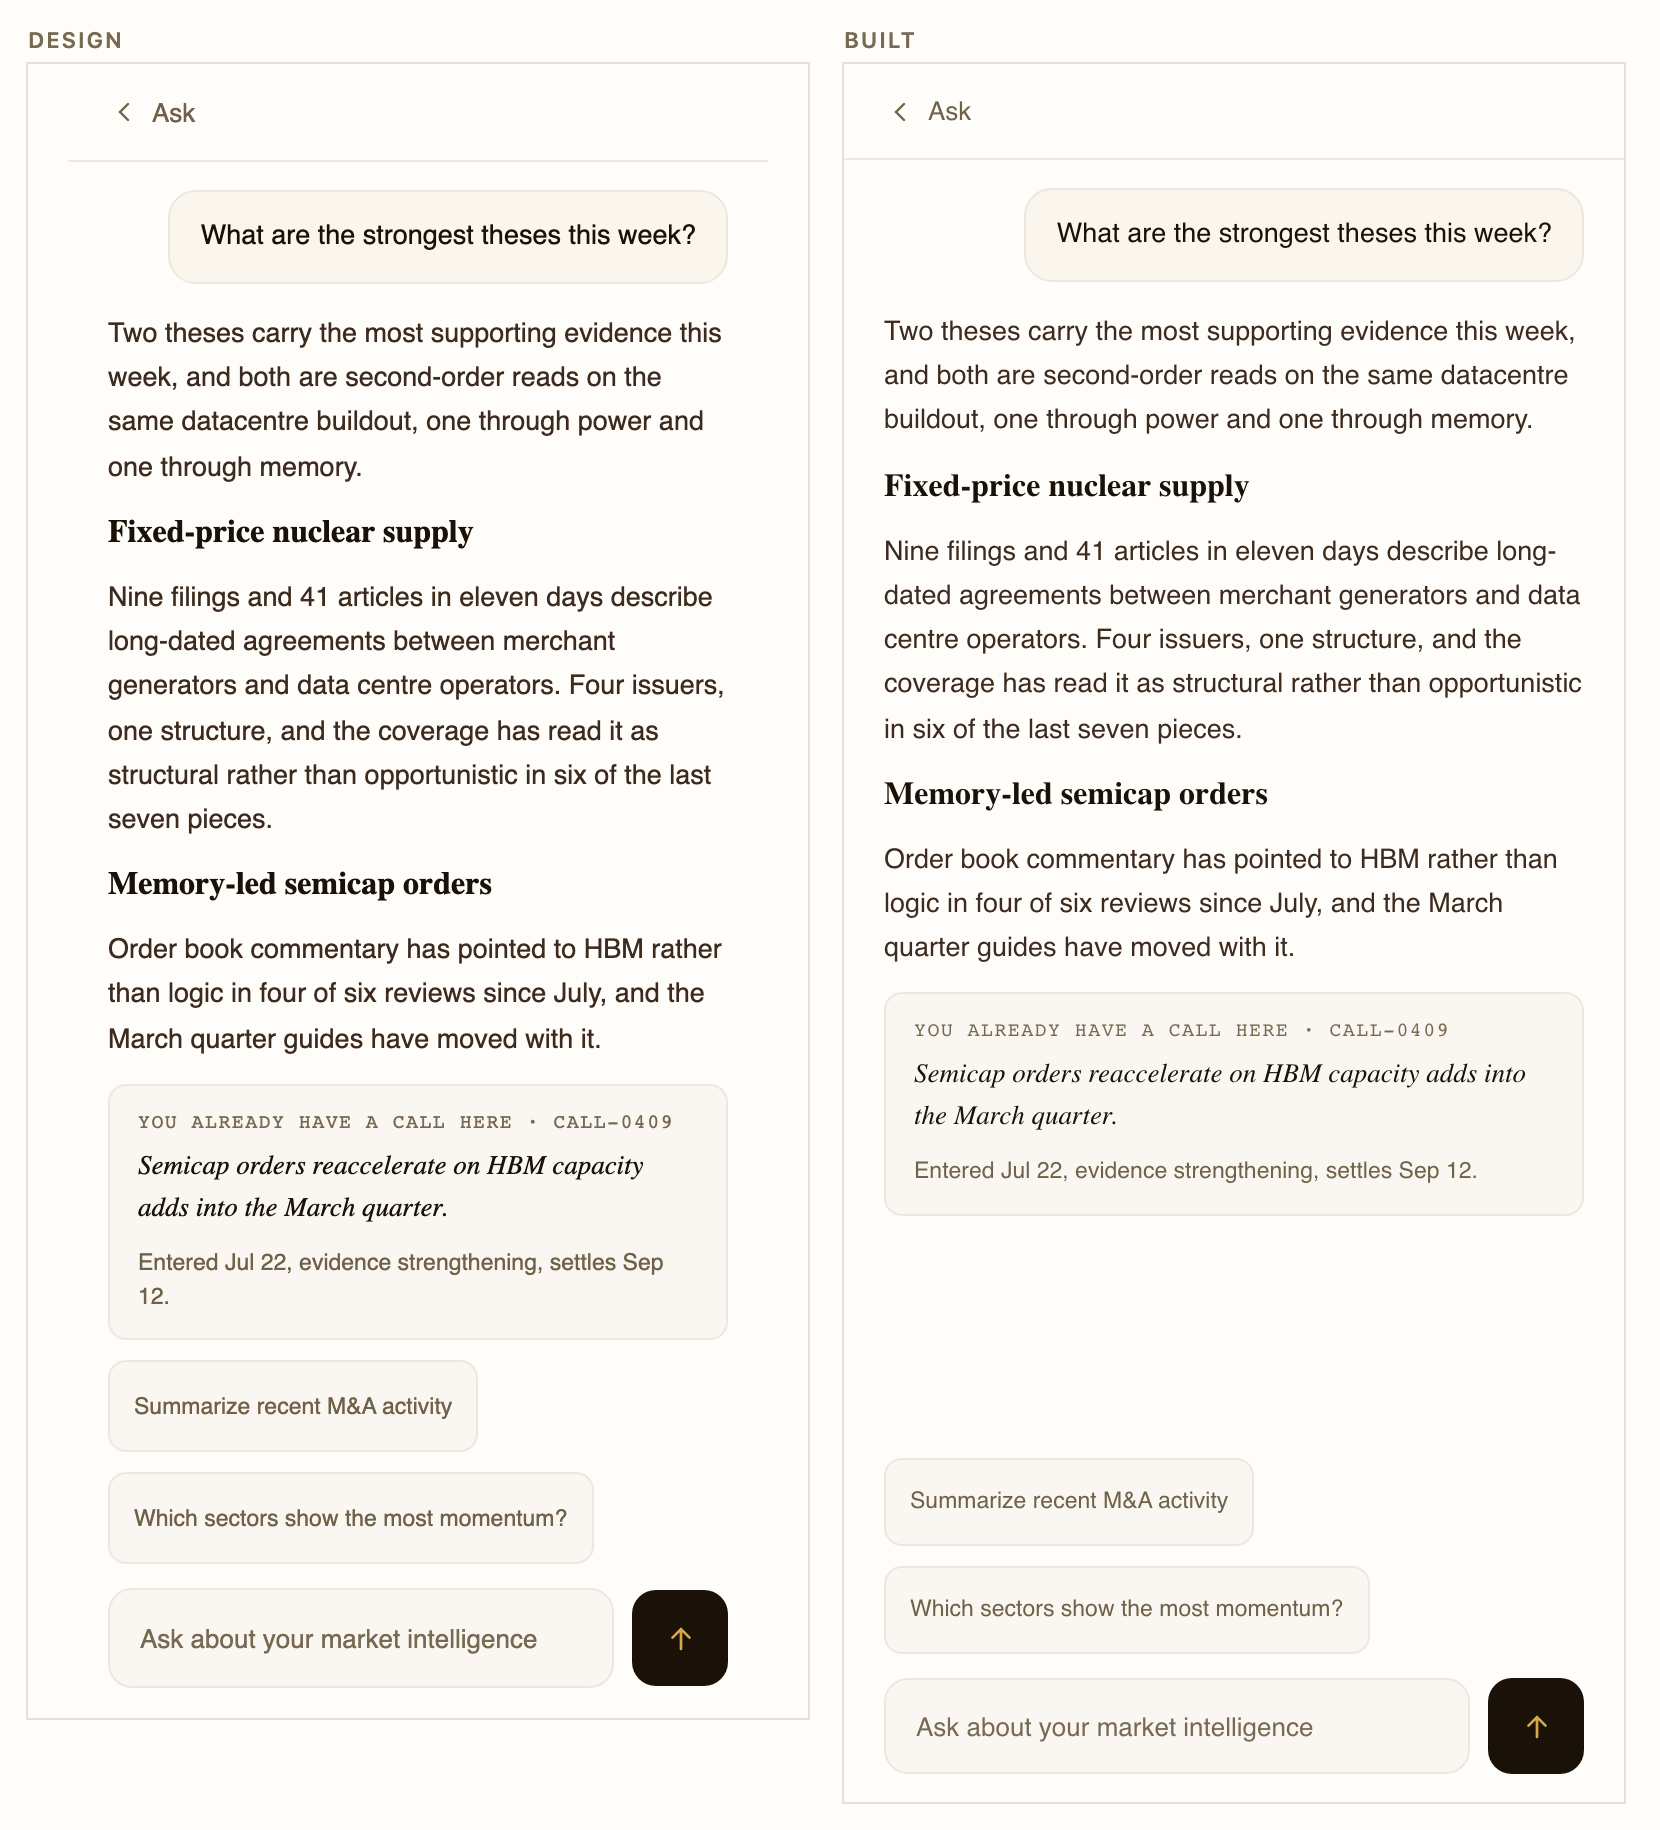
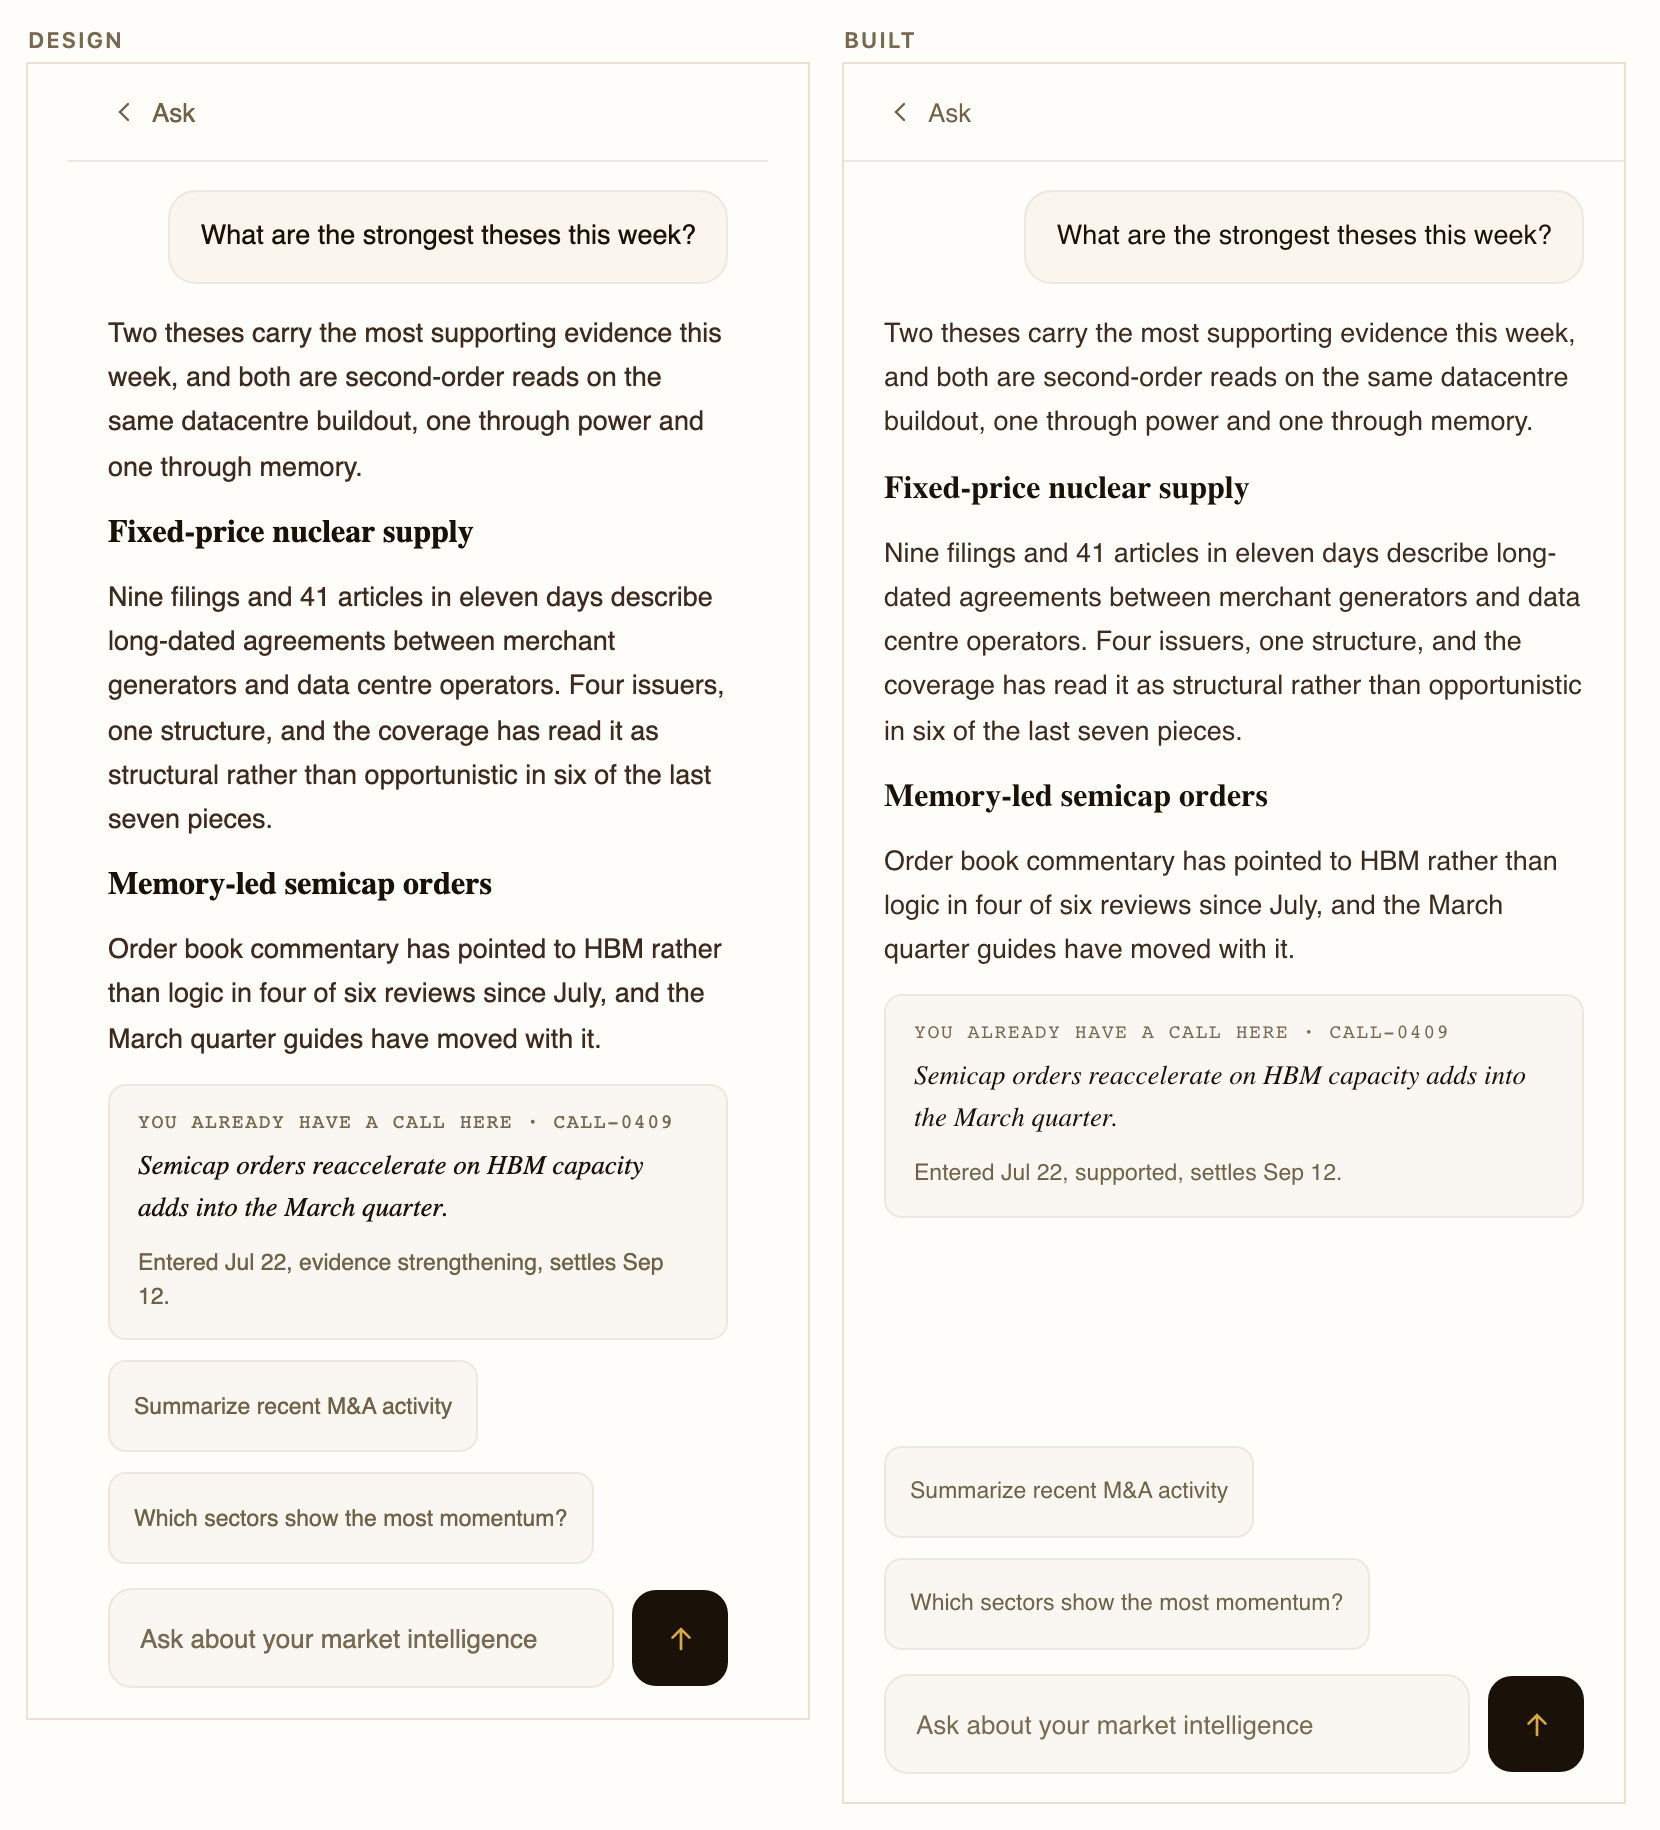
fix(ask): review, three findings applied
1. The record citation said "evidence strengthening". The outcome vocabulary
   is exactly supported / challenged / developing / awaiting, and this is the
   one card on the screen whose purpose is citing the reader's own call, so a
   fifth word for the same concept is the last thing that belongs on it. Now
   reads "supported". The design itself says it twice, "evidence
   strengthening" at prototype line 2563 and "Strengthening" at line 2037, and
   the second is drawn in --c-greenink, which is the ink token supported
   already carries. Neither paraphrase is reproduced.

2. The directory's Trends row still points at /trends, and the comment
   justifying it was only true until the mobile Trends screen merges. Rewritten
   to say what it is: a deliberate placeholder aimed at a desk page, because
   /trends-mobile does not exist on main and merge order is not something this
   file can depend on. Both routes are already in the Ask pole's owns list, so
   the pole lights either way and the swap is one string.

3. Reconciled to content-box. The prototype ships no box-sizing reset so every
   box in it is content-box; this app sets border-box globally, so a min-height
   means two different things on the two sides. Measured at 390, every
   min-height box on the screen was short, and the directory rows were short by
   more than the chips: design 95/95/96/57/57/58/46/46/50/49, built at
   border-box 93/93/75/56/56/56/44/44/48/48. All ten now match the design
[…]

diff --git a/src/components/ask/fixture.ts b/src/components/ask/fixture.ts
@@ -31,9 +31,22 @@ export type AskDirectoryRoute = {
 /**
  * Not fixture data. These three destinations exist in production and the row
  * renders with or without the gate; only the counter and the summary are
- * invented. `/trends` rather than `/trends-mobile`: the mobile Trends screen is
- * a separate unit and its route does not exist yet, and `/trends` lights the
- * same Ask pole.
+ * invented.
+ *
+ * `/trends` is a deliberate placeholder, and it is the one row here that is
+ * knowingly aimed at a desk page rather than a mobile one. The mobile Trends
+ * screen is a separate unit, is open as PR #657, and lands at
+ * `/trends-mobile`. That route does not exist on `main`, so pointing at it
+ * from here before it merges aims the row at a 404, and merge order between
+ * the two is not something this file can depend on. A working desk page beats
+ * a dead link; a dead link is not a smaller defect for being aspirational.
+ *
+ * Both routes are already in the Ask pole's `owns` list
+ * (`mobile-tab-bar.tsx:128` and `:135`), so the pole lights either way and the
+ * swap is this one string and nothing else.
+ *
+ * TODO(when the mobile Trends screen merges): change this href to
+ * `/trends-mobile`. There is nothing else to change.
  */
 export const ASK_DIRECTORY: AskDirectoryRoute[] = [
   { id: "deals", label: "Deal Flow", href: "/deal-flow" },
@@ -155,7 +168,17 @@ export const ASK_ANSWER_FIXTURE: AskAnswerData = {
   record: {
     eyebrow: "YOU ALREADY HAVE A CALL HERE · CALL-0409",
     claim: "Semicap orders reaccelerate on HBM capacity adds into the March quarter.",
-    meta: "Entered Jul 22, evidence strengthening, settles Sep 12.",
+    /* `supported`, not a fifth word for it. The outcome vocabulary is exactly
+       supported / challenged / developing / awaiting (`OUTCOME_STATES`), and
+       this is the one card on the screen whose whole purpose is citing the
+       reader's own call, so it is the last place a synonym belongs.
+
+       The design says "evidence strengthening" at prototype line 2563 and
+       "Strengthening" at line 2037, and the second is drawn in
+       `--c-greenink`, which is the ink token `supported` already carries. So
+       the prototype is describing the supported state in two paraphrases of
+       its own, and neither is reproduced. */
+    meta: "Entered Jul 22, supported, settles Sep 12.",
   },
   prompts: [SUGGESTED_PROMPTS[1], SUGGESTED_PROMPTS[2]],
   answeredAt: "Answered from intelligence gathered before 12:45.",

diff --git a/src/components/ask/ask-parts.tsx b/src/components/ask/ask-parts.tsx
@@ -23,6 +23,37 @@ import { Chevron } from "@/components/ledger/chevron";
 
 export const PAD = "var(--v3-pad)";
 
+/**
+ * Every box on these two screens that sets a `min-height` also sets it
+ * `content-box`, and this is the reason.
+ *
+ * The prototype ships no box-sizing reset, so every box in it is the browser
+ * default, content-box. This app sets `border-box` globally through Tailwind's
+ * preflight. A `min-height` therefore means two different things on the two
+ * sides: in the design the border and the block padding sit outside it, in the
+ * build they eat into it. Measured at 390 through `parity_harness.py --screen
+ * ask`, every min-height box on the screen came out short:
+ *
+ * | box | design | border-box | content-box |
+ * |---|---|---|---|
+ * | directory row, `min-height:64` + `15px 0` + rule | 95 | 93 | 95 |
+ * | lookup row, `min-height:56` + rule | 57 | 56 | 57 |
+ * | prompt chip, `min-height:44` + 1px border | 46 | 44 | 46 |
+ * | composer field, `min-height:48` + 1px border | 50 | 48 | 50 |
+ * | answer top bar, `min-height:48` + 1px rule | 49 | 48 | 49 |
+ *
+ * Nothing was out of compliance at border-box, since 44 clears the 44px floor
+ * exactly. But it clears it exactly rather than by the 2px the design drew,
+ * and `README.md:180` names content-box as the pattern used throughout for
+ * reaching 44. Reproducing the prototype's own box model is the correct fix;
+ * padding a number until it matches is not. Same reconciliation the mobile
+ * Trends and Deal Flow units made.
+ *
+ * Only boxes with a `min-height` need this. The 48x48 send control sets an
+ * explicit `width`/`height` and no border, so both models give 48.
+ */
+export const CONTENT_BOX = { boxSizing: "content-box" } as const satisfies CSSProperties;
+
 /** Hairline above every row in a group, and below the last one. */
 function rowRule(last: boolean): CSSProperties {
   return {
@@ -86,6 +117,7 @@ export function AskDirectoryRow({
     <Link
       href={href}
       style={{
+        ...CONTENT_BOX,
         display: "flex",
         gap: "13px",
         alignItems: "flex-start",
@@ -144,6 +176,7 @@ export function AskLookupRow({ href, ticker, name, entries, first = false, last 
     <Link
       href={href}
       style={{
+        ...CONTENT_BOX,
         display: "flex",
         alignItems: "center",
         gap: "13px",

diff --git a/src/components/ask/ask-composer.tsx b/src/components/ask/ask-composer.tsx
@@ -4,7 +4,7 @@ import Link from "next/link";
 import { useRouter } from "next/navigation";
 import { useState } from "react";
 import styles from "./ask.module.css";
-import { PAD } from "./ask-parts";
+import { CONTENT_BOX, PAD } from "./ask-parts";
 
 /**
  * The chip row and the composer, byte identical on both Ask screens in the
@@ -41,6 +41,7 @@ export function AskComposer({ prompts }: { prompts: readonly [string, string] })
             key={prompt}
             href={askHref(prompt)}
             style={{
+              ...CONTENT_BOX,
               flex: "none",
               minHeight: "44px",
               display: "flex",
@@ -97,6 +98,7 @@ export function AskComposer({ prompts }: { prompts: readonly [string, string] })
           value={value}
           onChange={(e) => setValue(e.target.value)}
           style={{
+            ...CONTENT_BOX,
             flex: 1,
             minWidth: 0,
             minHeight: "48px",

diff --git a/src/components/ask/ask-browse-screen.tsx b/src/components/ask/ask-browse-screen.tsx
@@ -4,6 +4,7 @@ import {
   AskNotice,
   AskSectionRule,
   AskSkeleton,
+  CONTENT_BOX,
   IconDeals,
   IconFeed,
   IconTrends,
@@ -156,7 +157,10 @@ export function AskBrowseScreen({
             {[0, 1, 2].map((i) => (
               <div
                 key={i}
+                /* Same box model as the AskLookupRow it stands in for, or the
+                   list would grow 1px a row when the real thing arrived. */
                 style={{
+                  ...CONTENT_BOX,
                   display: "flex",
                   alignItems: "center",
                   gap: "13px",

diff --git a/src/components/ask/ask-answer-screen.tsx b/src/components/ask/ask-answer-screen.tsx
@@ -1,6 +1,6 @@
 import Link from "next/link";
 import { AskComposer } from "./ask-composer";
-import { AskNotice, AskSkeleton, IconBack, PAD } from "./ask-parts";
+import { AskNotice, AskSkeleton, CONTENT_BOX, IconBack, PAD } from "./ask-parts";
 import styles from "./ask.module.css";
 import {
   ASK_ANSWER_FIXTURE,
@@ -67,6 +67,7 @@ export function AskAnswerScreen({
 
       <div
         style={{
+          ...CONTENT_BOX,
           flex: "none",
           minHeight: "48px",
           display: "flex",
